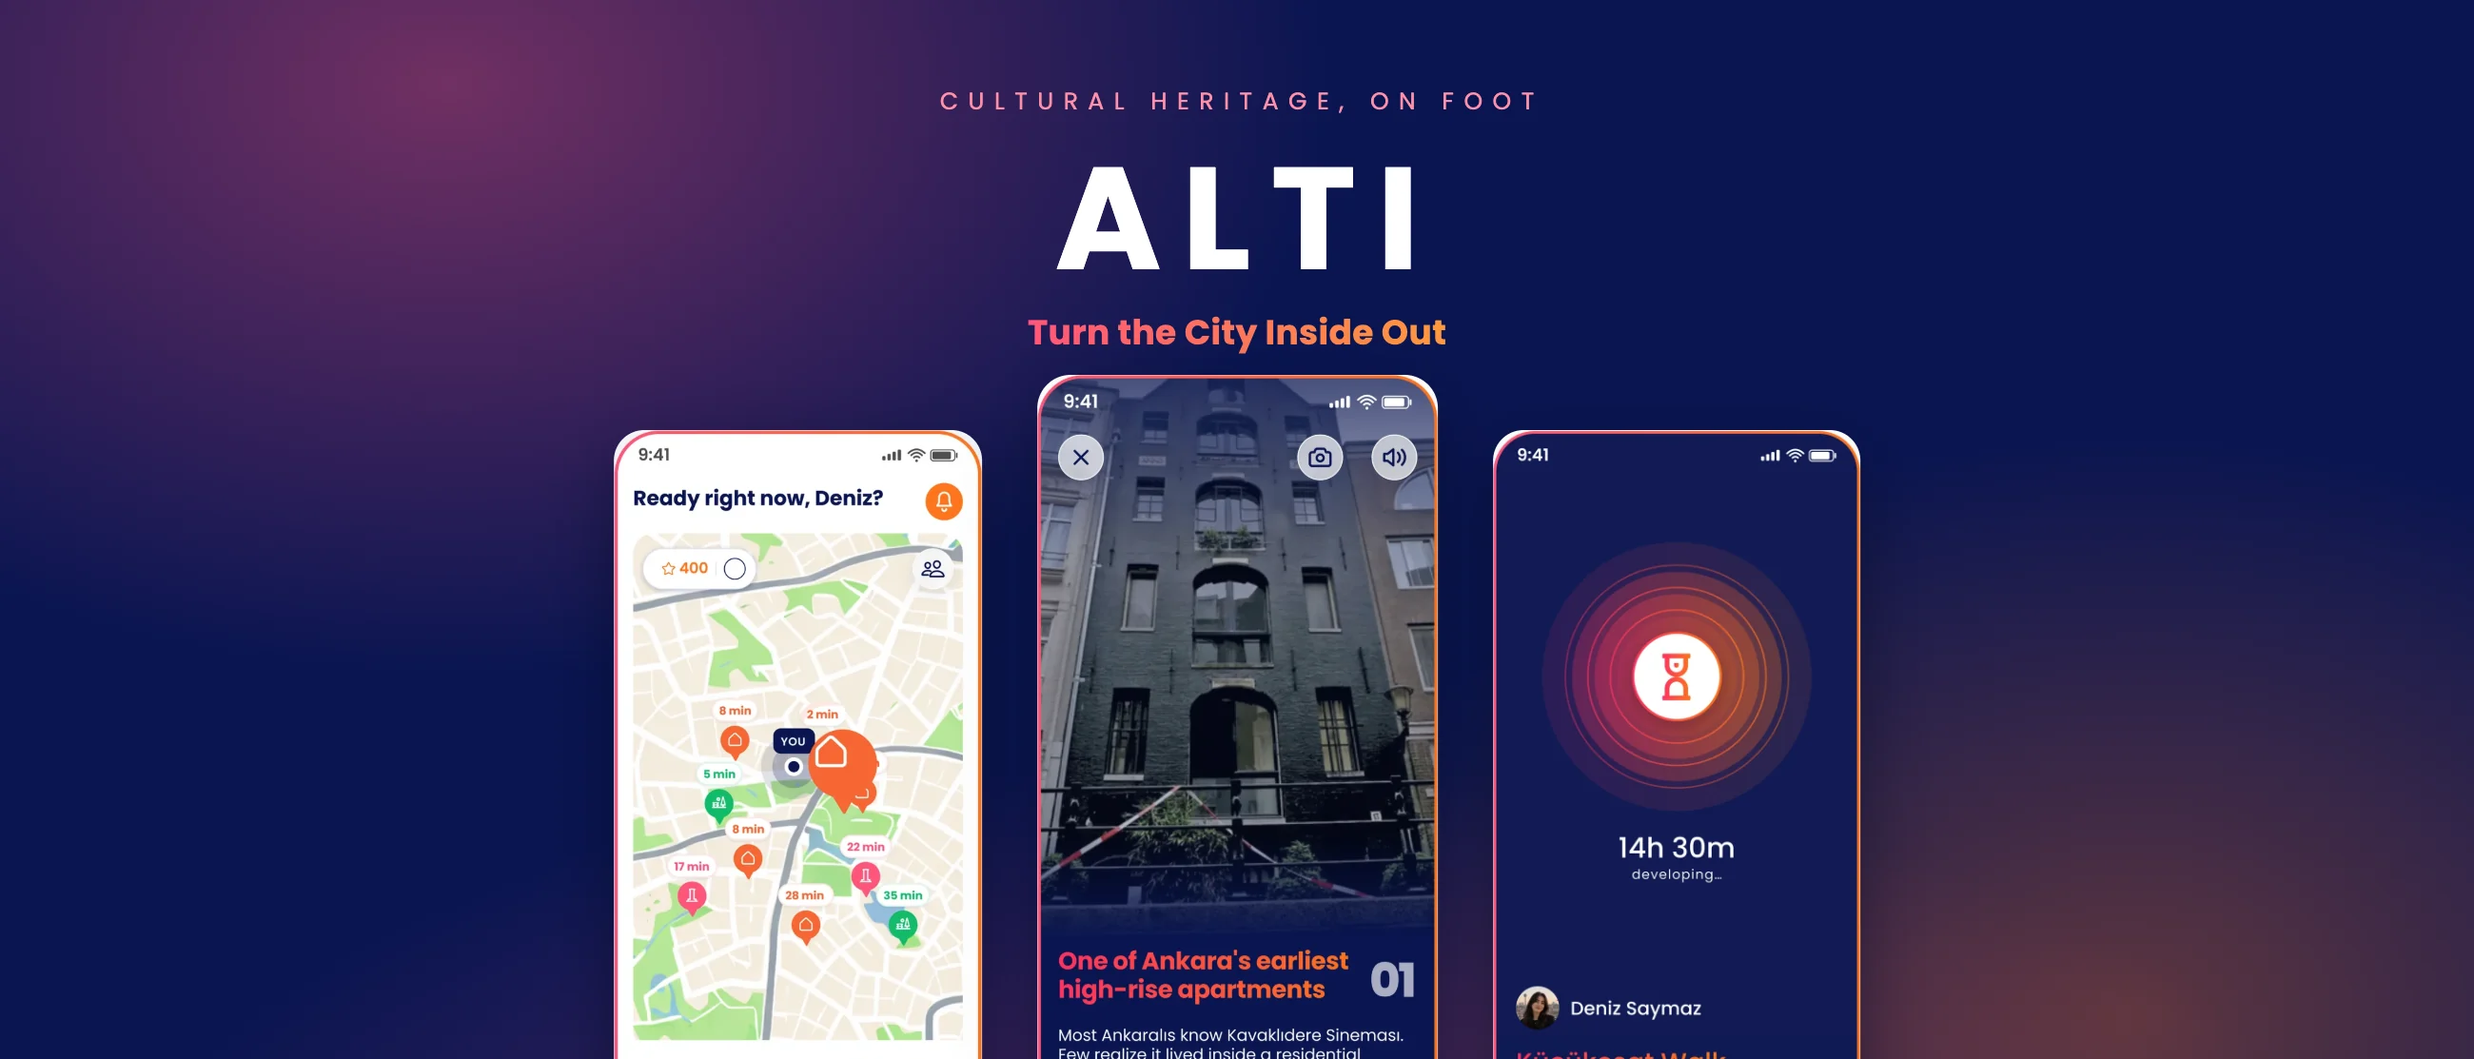
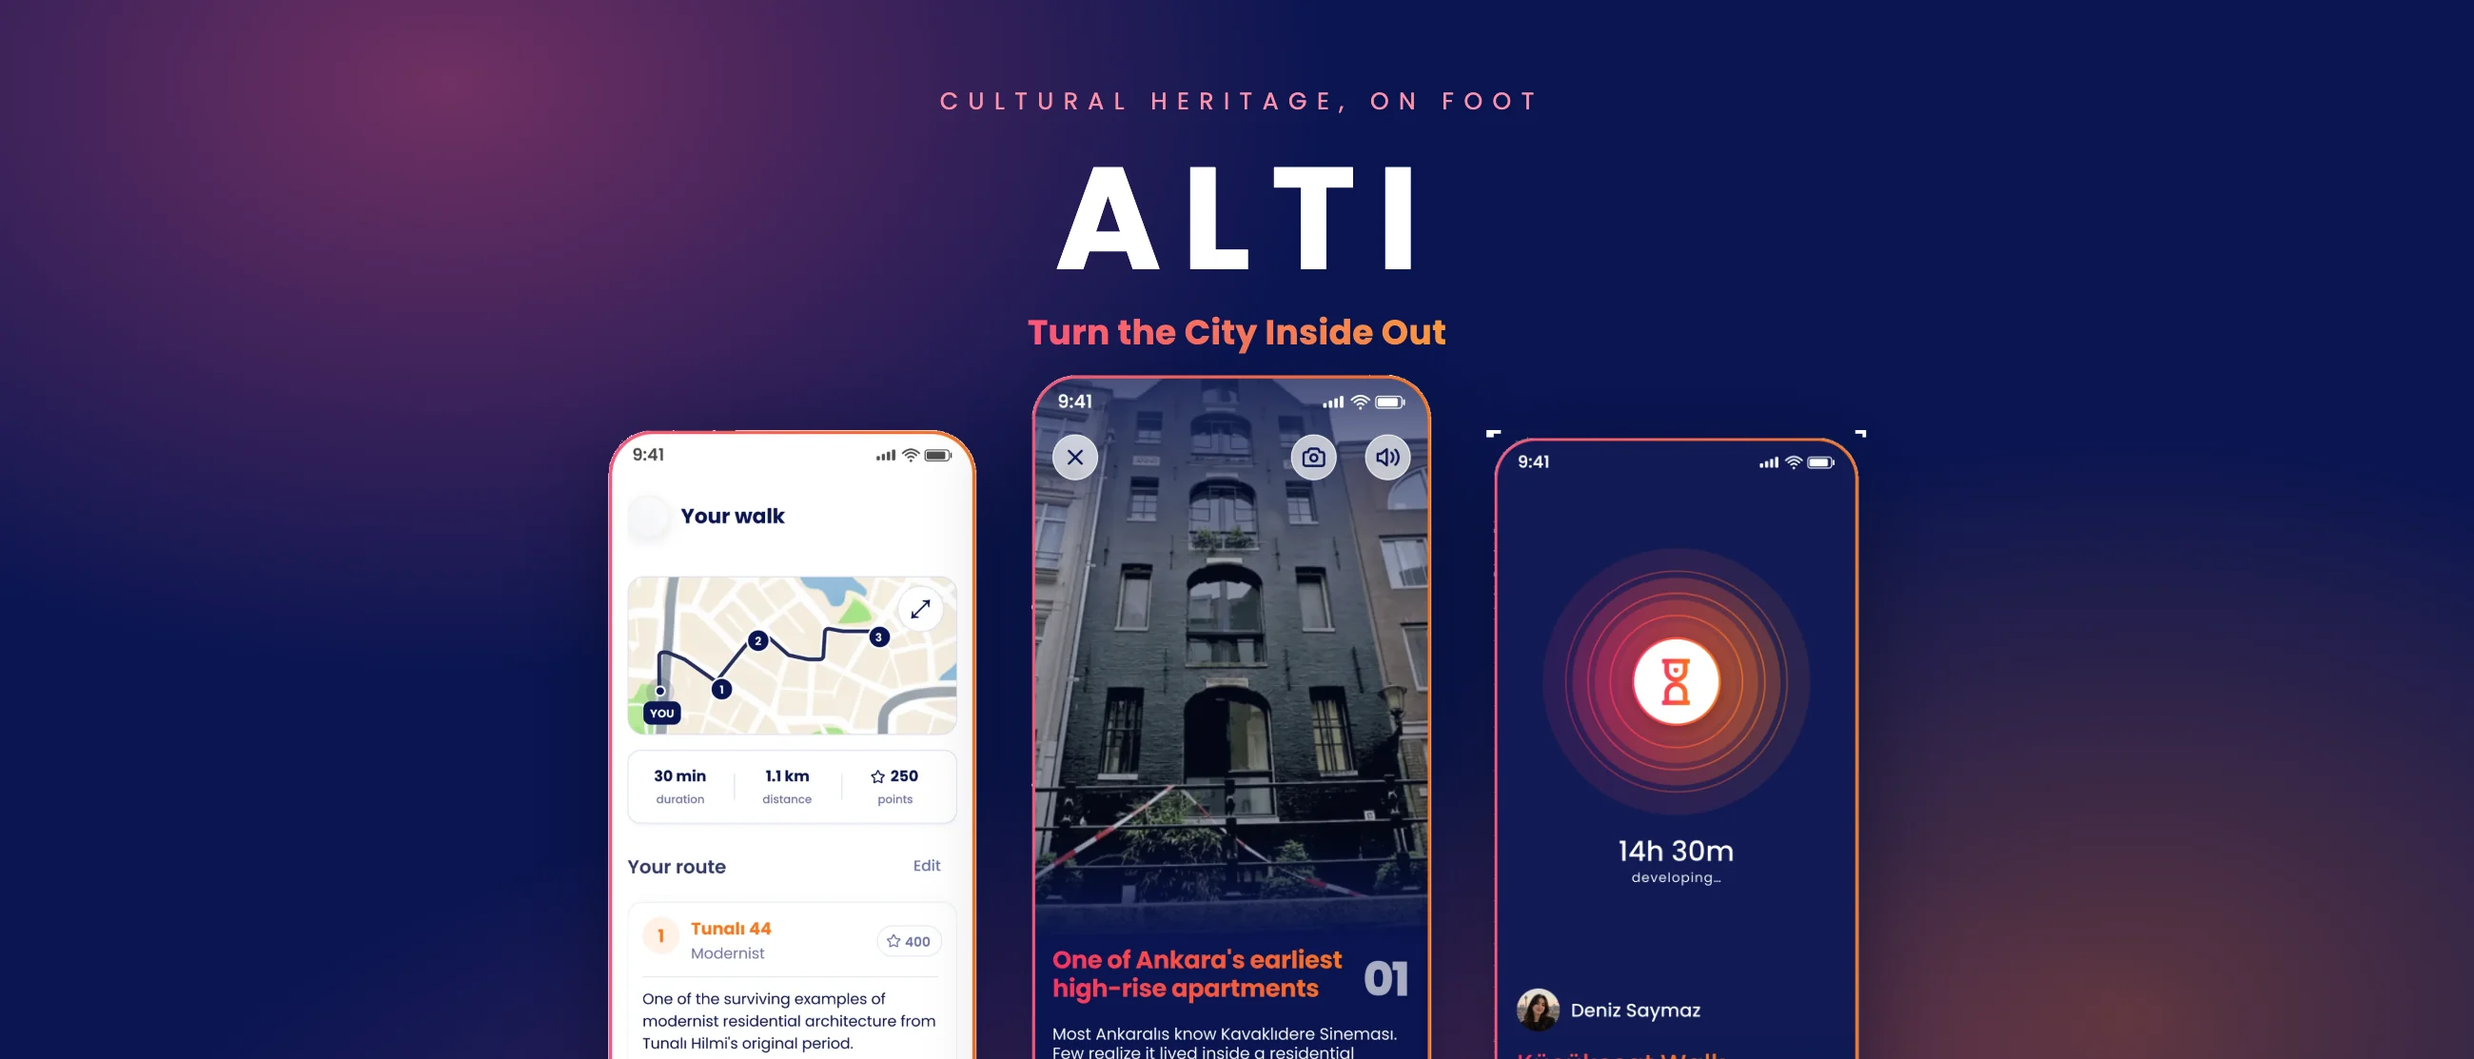
Cut the cover's phones to their own outline
Two faults in the ALTI card, both visible once Elif zoomed in.

The phones were cropped to a bounding box and then rounded off with a CSS
border-radius, and the rounded rectangle a browser draws is not the one these
phones have: the gradient bezel came away in notches at the corners. They are
cut to their real outline now — the background is a flat band, so flooding it
inwards from the four corners marks exactly what is outside the phone. That
also means the shadow has to follow the alpha rather than the box, so it is a
drop-shadow filter rather than a box-shadow.

The other fault is not ours: the map screen carried an oversized marker sitting
on top of the map, because the phones on that board section are clones that
were rescaled and the marker did not come down with the rest. The same flow one
step on is clean, so the row now shows the route rather than the map. The
defect is still in the board, and still shows in the case study's Wander strip.

Carries the other session's de-duplication of the shared template with it.

Changed region(s): [[0.2181, 0.336, 0.7788, 1.0], [0.6231, 0.5193, 0.7165, 0.7637], [0.6542, 0.7942, 0.7165, 0.8553]]

diff --git a/404.html b/404.html
@@ -447,7 +447,6 @@ html{scroll-snap-type:y proximity}
 .entry:hover .entry-title{-webkit-text-fill-color:transparent}
 .entry-line{font-size:15px;line-height:1.55;color:var(--ink-2);max-width:52ch}
 .entry-with{display:block;margin-top:7px;font-size:13.5px;color:#8A8B92;letter-spacing:.005em}
-.entry-with{display:block;margin-top:7px;font-size:13.5px;color:#8A8B92;letter-spacing:.005em}
 
 .entry-tags{display:flex;flex-wrap:wrap;gap:6px;margin-top:3px}
 .entry-tags i{
@@ -1431,7 +1430,6 @@ const T = {
     },
     notes:{grad:'Graduation project'},
     withLine:a=>'With '+a.slice(0,-1).join(', ')+(a.length>1?' and ':'')+a[a.length-1],
-    withLine:a=>'With '+a.slice(0,-1).join(', ')+(a.length>1?' and ':'')+a[a.length-1],
     cta_tile:'View case →',
     cta_demo:'Open the prototype →',   /* no case study yet, but it runs */
     disc:{
@@ -1478,7 +1476,6 @@ const T = {
       shutter: {i:'gamepad', t:'Üç kişilik bir oyun. Oyun tasarımı ve oyun arayüzü bana ait.'},
     },
     notes:{grad:'Mezuniyet projesi'},
-    withLine:a=>a.slice(0,-1).join(', ')+(a.length>1?' ve ':'')+a[a.length-1]+' ile birlikte',
     withLine:a=>a.slice(0,-1).join(', ')+(a.length>1?' ve ':'')+a[a.length-1]+' ile birlikte',
     cta_tile:'Vakayı gör →',
     cta_demo:'Prototipi aç →',
@@ -1642,7 +1639,6 @@ function buildIndex(){
         `<span class="entry-brand">${brandMark(p)}<em class="entry-year">${p.year}</em>${note}</span>`+
         `<span class="entry-title">${p.mark}</span>`+
         `<span class="entry-line">${line}</span>`+
-        (p.team ? `<span class="entry-with">${t().withLine(p.team)}</span>` : '')+
         (p.team ? `<span class="entry-with">${t().withLine(p.team)}</span>` : '')+
         `<span class="entry-tags">${p.disc.map(d=>`<i>${icoSvg(DISC_ICON[d])}${t().disc[d].l}</i>`).join('')}</span>`+
       `</span>`+

diff --git a/case/alti/index.html b/case/alti/index.html
@@ -447,7 +447,6 @@ html{scroll-snap-type:y proximity}
 .entry:hover .entry-title{-webkit-text-fill-color:transparent}
 .entry-line{font-size:15px;line-height:1.55;color:var(--ink-2);max-width:52ch}
 .entry-with{display:block;margin-top:7px;font-size:13.5px;color:#8A8B92;letter-spacing:.005em}
-.entry-with{display:block;margin-top:7px;font-size:13.5px;color:#8A8B92;letter-spacing:.005em}
 
 .entry-tags{display:flex;flex-wrap:wrap;gap:6px;margin-top:3px}
 .entry-tags i{
@@ -1431,7 +1430,6 @@ const T = {
     },
     notes:{grad:'Graduation project'},
     withLine:a=>'With '+a.slice(0,-1).join(', ')+(a.length>1?' and ':'')+a[a.length-1],
-    withLine:a=>'With '+a.slice(0,-1).join(', ')+(a.length>1?' and ':'')+a[a.length-1],
     cta_tile:'View case →',
     cta_demo:'Open the prototype →',   /* no case study yet, but it runs */
     disc:{
@@ -1478,7 +1476,6 @@ const T = {
       shutter: {i:'gamepad', t:'Üç kişilik bir oyun. Oyun tasarımı ve oyun arayüzü bana ait.'},
     },
     notes:{grad:'Mezuniyet projesi'},
-    withLine:a=>a.slice(0,-1).join(', ')+(a.length>1?' ve ':'')+a[a.length-1]+' ile birlikte',
     withLine:a=>a.slice(0,-1).join(', ')+(a.length>1?' ve ':'')+a[a.length-1]+' ile birlikte',
     cta_tile:'Vakayı gör →',
     cta_demo:'Prototipi aç →',
@@ -1642,7 +1639,6 @@ function buildIndex(){
         `<span class="entry-brand">${brandMark(p)}<em class="entry-year">${p.year}</em>${note}</span>`+
         `<span class="entry-title">${p.mark}</span>`+
         `<span class="entry-line">${line}</span>`+
-        (p.team ? `<span class="entry-with">${t().withLine(p.team)}</span>` : '')+
         (p.team ? `<span class="entry-with">${t().withLine(p.team)}</span>` : '')+
         `<span class="entry-tags">${p.disc.map(d=>`<i>${icoSvg(DISC_ICON[d])}${t().disc[d].l}</i>`).join('')}</span>`+
       `</span>`+

diff --git a/case/cursor/index.html b/case/cursor/index.html
@@ -447,7 +447,6 @@ html{scroll-snap-type:y proximity}
 .entry:hover .entry-title{-webkit-text-fill-color:transparent}
 .entry-line{font-size:15px;line-height:1.55;color:var(--ink-2);max-width:52ch}
 .entry-with{display:block;margin-top:7px;font-size:13.5px;color:#8A8B92;letter-spacing:.005em}
-.entry-with{display:block;margin-top:7px;font-size:13.5px;color:#8A8B92;letter-spacing:.005em}
 
 .entry-tags{display:flex;flex-wrap:wrap;gap:6px;margin-top:3px}
 .entry-tags i{
@@ -1431,7 +1430,6 @@ const T = {
     },
     notes:{grad:'Graduation project'},
     withLine:a=>'With '+a.slice(0,-1).join(', ')+(a.length>1?' and ':'')+a[a.length-1],
-    withLine:a=>'With '+a.slice(0,-1).join(', ')+(a.length>1?' and ':'')+a[a.length-1],
     cta_tile:'View case →',
     cta_demo:'Open the prototype →',   /* no case study yet, but it runs */
     disc:{
@@ -1478,7 +1476,6 @@ const T = {
       shutter: {i:'gamepad', t:'Üç kişilik bir oyun. Oyun tasarımı ve oyun arayüzü bana ait.'},
     },
     notes:{grad:'Mezuniyet projesi'},
-    withLine:a=>a.slice(0,-1).join(', ')+(a.length>1?' ve ':'')+a[a.length-1]+' ile birlikte',
     withLine:a=>a.slice(0,-1).join(', ')+(a.length>1?' ve ':'')+a[a.length-1]+' ile birlikte',
     cta_tile:'Vakayı gör →',
     cta_demo:'Prototipi aç →',
@@ -1642,7 +1639,6 @@ function buildIndex(){
         `<span class="entry-brand">${brandMark(p)}<em class="entry-year">${p.year}</em>${note}</span>`+
         `<span class="entry-title">${p.mark}</span>`+
         `<span class="entry-line">${line}</span>`+
-        (p.team ? `<span class="entry-with">${t().withLine(p.team)}</span>` : '')+
         (p.team ? `<span class="entry-with">${t().withLine(p.team)}</span>` : '')+
         `<span class="entry-tags">${p.disc.map(d=>`<i>${icoSvg(DISC_ICON[d])}${t().disc[d].l}</i>`).join('')}</span>`+
       `</span>`+

diff --git a/case/whallet/index.html b/case/whallet/index.html
@@ -447,7 +447,6 @@ html{scroll-snap-type:y proximity}
 .entry:hover .entry-title{-webkit-text-fill-color:transparent}
 .entry-line{font-size:15px;line-height:1.55;color:var(--ink-2);max-width:52ch}
 .entry-with{display:block;margin-top:7px;font-size:13.5px;color:#8A8B92;letter-spacing:.005em}
-.entry-with{display:block;margin-top:7px;font-size:13.5px;color:#8A8B92;letter-spacing:.005em}
 
 .entry-tags{display:flex;flex-wrap:wrap;gap:6px;margin-top:3px}
 .entry-tags i{
@@ -1431,7 +1430,6 @@ const T = {
     },
     notes:{grad:'Graduation project'},
     withLine:a=>'With '+a.slice(0,-1).join(', ')+(a.length>1?' and ':'')+a[a.length-1],
-    withLine:a=>'With '+a.slice(0,-1).join(', ')+(a.length>1?' and ':'')+a[a.length-1],
     cta_tile:'View case →',
     cta_demo:'Open the prototype →',   /* no case study yet, but it runs */
     disc:{
@@ -1478,7 +1476,6 @@ const T = {
       shutter: {i:'gamepad', t:'Üç kişilik bir oyun. Oyun tasarımı ve oyun arayüzü bana ait.'},
     },
     notes:{grad:'Mezuniyet projesi'},
-    withLine:a=>a.slice(0,-1).join(', ')+(a.length>1?' ve ':'')+a[a.length-1]+' ile birlikte',
     withLine:a=>a.slice(0,-1).join(', ')+(a.length>1?' ve ':'')+a[a.length-1]+' ile birlikte',
     cta_tile:'Vakayı gör →',
     cta_demo:'Prototipi aç →',
@@ -1642,7 +1639,6 @@ function buildIndex(){
         `<span class="entry-brand">${brandMark(p)}<em class="entry-year">${p.year}</em>${note}</span>`+
         `<span class="entry-title">${p.mark}</span>`+
         `<span class="entry-line">${line}</span>`+
-        (p.team ? `<span class="entry-with">${t().withLine(p.team)}</span>` : '')+
         (p.team ? `<span class="entry-with">${t().withLine(p.team)}</span>` : '')+
         `<span class="entry-tags">${p.disc.map(d=>`<i>${icoSvg(DISC_ICON[d])}${t().disc[d].l}</i>`).join('')}</span>`+
       `</span>`+

diff --git a/cv/index.html b/cv/index.html
@@ -447,7 +447,6 @@ html{scroll-snap-type:y proximity}
 .entry:hover .entry-title{-webkit-text-fill-color:transparent}
 .entry-line{font-size:15px;line-height:1.55;color:var(--ink-2);max-width:52ch}
 .entry-with{display:block;margin-top:7px;font-size:13.5px;color:#8A8B92;letter-spacing:.005em}
-.entry-with{display:block;margin-top:7px;font-size:13.5px;color:#8A8B92;letter-spacing:.005em}
 
 .entry-tags{display:flex;flex-wrap:wrap;gap:6px;margin-top:3px}
 .entry-tags i{
@@ -1431,7 +1430,6 @@ const T = {
     },
     notes:{grad:'Graduation project'},
     withLine:a=>'With '+a.slice(0,-1).join(', ')+(a.length>1?' and ':'')+a[a.length-1],
-    withLine:a=>'With '+a.slice(0,-1).join(', ')+(a.length>1?' and ':'')+a[a.length-1],
     cta_tile:'View case →',
     cta_demo:'Open the prototype →',   /* no case study yet, but it runs */
     disc:{
@@ -1478,7 +1476,6 @@ const T = {
       shutter: {i:'gamepad', t:'Üç kişilik bir oyun. Oyun tasarımı ve oyun arayüzü bana ait.'},
     },
     notes:{grad:'Mezuniyet projesi'},
-    withLine:a=>a.slice(0,-1).join(', ')+(a.length>1?' ve ':'')+a[a.length-1]+' ile birlikte',
     withLine:a=>a.slice(0,-1).join(', ')+(a.length>1?' ve ':'')+a[a.length-1]+' ile birlikte',
     cta_tile:'Vakayı gör →',
     cta_demo:'Prototipi aç →',
@@ -1642,7 +1639,6 @@ function buildIndex(){
         `<span class="entry-brand">${brandMark(p)}<em class="entry-year">${p.year}</em>${note}</span>`+
         `<span class="entry-title">${p.mark}</span>`+
         `<span class="entry-line">${line}</span>`+
-        (p.team ? `<span class="entry-with">${t().withLine(p.team)}</span>` : '')+
         (p.team ? `<span class="entry-with">${t().withLine(p.team)}</span>` : '')+
         `<span class="entry-tags">${p.disc.map(d=>`<i>${icoSvg(DISC_ICON[d])}${t().disc[d].l}</i>`).join('')}</span>`+
       `</span>`+

diff --git a/index.html b/index.html
@@ -447,7 +447,6 @@ html{scroll-snap-type:y proximity}
 .entry:hover .entry-title{-webkit-text-fill-color:transparent}
 .entry-line{font-size:15px;line-height:1.55;color:var(--ink-2);max-width:52ch}
 .entry-with{display:block;margin-top:7px;font-size:13.5px;color:#8A8B92;letter-spacing:.005em}
-.entry-with{display:block;margin-top:7px;font-size:13.5px;color:#8A8B92;letter-spacing:.005em}
 
 .entry-tags{display:flex;flex-wrap:wrap;gap:6px;margin-top:3px}
 .entry-tags i{
@@ -1431,7 +1430,6 @@ const T = {
     },
     notes:{grad:'Graduation project'},
     withLine:a=>'With '+a.slice(0,-1).join(', ')+(a.length>1?' and ':'')+a[a.length-1],
-    withLine:a=>'With '+a.slice(0,-1).join(', ')+(a.length>1?' and ':'')+a[a.length-1],
     cta_tile:'View case →',
     cta_demo:'Open the prototype →',   /* no case study yet, but it runs */
     disc:{
@@ -1478,7 +1476,6 @@ const T = {
       shutter: {i:'gamepad', t:'Üç kişilik bir oyun. Oyun tasarımı ve oyun arayüzü bana ait.'},
     },
     notes:{grad:'Mezuniyet projesi'},
-    withLine:a=>a.slice(0,-1).join(', ')+(a.length>1?' ve ':'')+a[a.length-1]+' ile birlikte',
     withLine:a=>a.slice(0,-1).join(', ')+(a.length>1?' ve ':'')+a[a.length-1]+' ile birlikte',
     cta_tile:'Vakayı gör →',
     cta_demo:'Prototipi aç →',
@@ -1642,7 +1639,6 @@ function buildIndex(){
         `<span class="entry-brand">${brandMark(p)}<em class="entry-year">${p.year}</em>${note}</span>`+
         `<span class="entry-title">${p.mark}</span>`+
         `<span class="entry-line">${line}</span>`+
-        (p.team ? `<span class="entry-with">${t().withLine(p.team)}</span>` : '')+
         (p.team ? `<span class="entry-with">${t().withLine(p.team)}</span>` : '')+
         `<span class="entry-tags">${p.disc.map(d=>`<i>${icoSvg(DISC_ICON[d])}${t().disc[d].l}</i>`).join('')}</span>`+
       `</span>`+

diff --git a/src/portfolio-artifact.tmpl.html b/src/portfolio-artifact.tmpl.html
@@ -432,7 +432,6 @@ html{scroll-snap-type:y proximity}
 .entry:hover .entry-title{-webkit-text-fill-color:transparent}
 .entry-line{font-size:15px;line-height:1.55;color:var(--ink-2);max-width:52ch}
 .entry-with{display:block;margin-top:7px;font-size:13.5px;color:#8A8B92;letter-spacing:.005em}
-.entry-with{display:block;margin-top:7px;font-size:13.5px;color:#8A8B92;letter-spacing:.005em}
 
 .entry-tags{display:flex;flex-wrap:wrap;gap:6px;margin-top:3px}
 .entry-tags i{
@@ -1416,7 +1415,6 @@ const T = {
     },
     notes:{grad:'Graduation project'},
     withLine:a=>'With '+a.slice(0,-1).join(', ')+(a.length>1?' and ':'')+a[a.length-1],
-    withLine:a=>'With '+a.slice(0,-1).join(', ')+(a.length>1?' and ':'')+a[a.length-1],
     cta_tile:'View case →',
     cta_demo:'Open the prototype →',   /* no case study yet, but it runs */
     disc:{
@@ -1463,7 +1461,6 @@ const T = {
       shutter: {i:'gamepad', t:'Üç kişilik bir oyun. Oyun tasarımı ve oyun arayüzü bana ait.'},
     },
     notes:{grad:'Mezuniyet projesi'},
-    withLine:a=>a.slice(0,-1).join(', ')+(a.length>1?' ve ':'')+a[a.length-1]+' ile birlikte',
     withLine:a=>a.slice(0,-1).join(', ')+(a.length>1?' ve ':'')+a[a.length-1]+' ile birlikte',
     cta_tile:'Vakayı gör →',
     cta_demo:'Prototipi aç →',
@@ -1627,7 +1624,6 @@ function buildIndex(){
         `<span class="entry-brand">${brandMark(p)}<em class="entry-year">${p.year}</em>${note}</span>`+
         `<span class="entry-title">${p.mark}</span>`+
         `<span class="entry-line">${line}</span>`+
-        (p.team ? `<span class="entry-with">${t().withLine(p.team)}</span>` : '')+
         (p.team ? `<span class="entry-with">${t().withLine(p.team)}</span>` : '')+
         `<span class="entry-tags">${p.disc.map(d=>`<i>${icoSvg(DISC_ICON[d])}${t().disc[d].l}</i>`).join('')}</span>`+
       `</span>`+

diff --git a/src/cover_alti/cover.html b/src/cover_alti/cover.html
@@ -59,10 +59,13 @@ body{background:#0A1551}
   display:flex; align-items:flex-start; gap:58px;
 }
 .rack img{
-  display:block; width:auto; height:840px; border-radius:32px;
-  box-shadow:0 26px 70px rgba(4,8,32,.5);
+  display:block; width:auto; height:840px;
+  /* the screens arrive as transparent PNGs cut to the bezel's own outline, so
+     the shadow has to follow the alpha — a box-shadow would draw the corners
+     the phone does not have, which is what a border-radius here got wrong */
+  filter:drop-shadow(0 26px 46px rgba(4,8,32,.55));
 }
-.rack img.mid{height:920px; border-radius:35px; margin-top:-58px}
+.rack img.mid{height:920px; margin-top:-58px}
 </style>
 <div class="cover">
   <p class="eyebrow">Cultural heritage, on foot</p>
@@ -72,7 +75,7 @@ body{background:#0A1551}
        third of these and came out as an almost empty navy rectangle on a navy
        ground; the map carries colour, so the row reads light / photo / dark. -->
   <div class="rack">
-    <img class="side" src="w1.png" alt="">
+    <img class="side" src="w3.png" alt="">
     <img class="mid"  src="d2.png" alt="">
     <img class="side" src="d3.png" alt="">
   </div>

diff --git a/src/make_cover_alti.py b/src/make_cover_alti.py
@@ -29,17 +29,52 @@ SHOT = os.path.join(WORK, '_render.png')
 
 CHROME = '/Applications/Google Chrome.app/Contents/MacOS/Google Chrome'
 W, H = 2600, 1113                      # the featured card's band (coverRatio)
-SCREENS = ('w1', 'd2', 'd3')
+# w1 was the light screen here and it carries a defect from the board: the
+# phones on that section are clones that were rescaled, and the map's own
+# marker did not come down with the rest — it sits over the map at full
+# size. w3 is the same flow one step on, and clean.
+SCREENS = ('w3', 'd2', 'd3')
 
 
 def trim(name):
-    """the phone, cut free of the section band it was exported on"""
+    """The phone, cut free of the section band it was exported on — as a
+    transparent PNG following the bezel's real outline.
+
+    A bounding-box crop plus a CSS border-radius was the first attempt and it
+    clipped the corners: the rounded rectangle the browser draws is not the one
+    the phone has, so the gradient bezel came away in notches. The background
+    is a flat band, so flooding it from the four corners marks exactly what is
+    outside the phone and the rest is the phone, corners included.
+    """
     im = Image.open(os.path.join(SRC, name + '.webp')).convert('RGB')
-    a = np.array(im).astype(int)
+    a = np.array(im).astype(np.int16)
     band = a[im.height // 2, 2]
-    ys, xs = np.where(np.abs(a - band).sum(2) > 40)
-    im.crop((xs.min(), ys.min(), xs.max() + 1, ys.max() + 1)).save(
-        os.path.join(WORK, name + '.png'))
+
+    outside = Image.new('L', im.size, 0)
+    flood = Image.fromarray(
+        (np.abs(a - band).sum(2) < 40).astype(np.uint8) * 255)   # band-coloured
+    px = flood.load()
+    # only the band that reaches a corner is outside; a white area inside the
+    # screen must not be punched through
+    stack = [(0, 0), (im.width - 1, 0), (0, im.height - 1),
+             (im.width - 1, im.height - 1)]
+    seen = np.zeros(im.size[::-1], bool)
+    op = outside.load()
+    while stack:
+        x, y = stack.pop()
+        if not (0 <= x < im.width and 0 <= y < im.height) or seen[y, x]:
+            continue
+        if px[x, y] != 255:
+            continue
+        seen[y, x] = True
+        op[x, y] = 255
+        stack += [(x + 1, y), (x - 1, y), (x, y + 1), (x, y - 1)]
+
+    rgba = im.convert('RGBA')
+    alpha = np.array(outside)
+    rgba.putalpha(Image.fromarray(255 - alpha))
+    rgba = rgba.crop(rgba.getbbox())
+    rgba.save(os.path.join(WORK, name + '.png'))
 
 
 if not os.path.isfile(CHROME):
